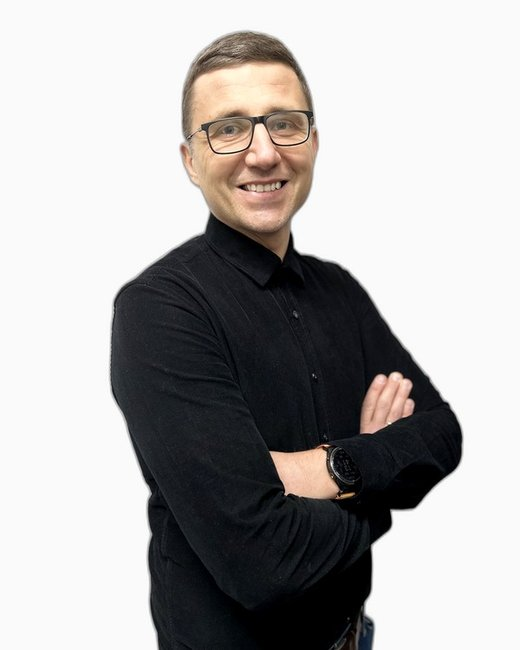
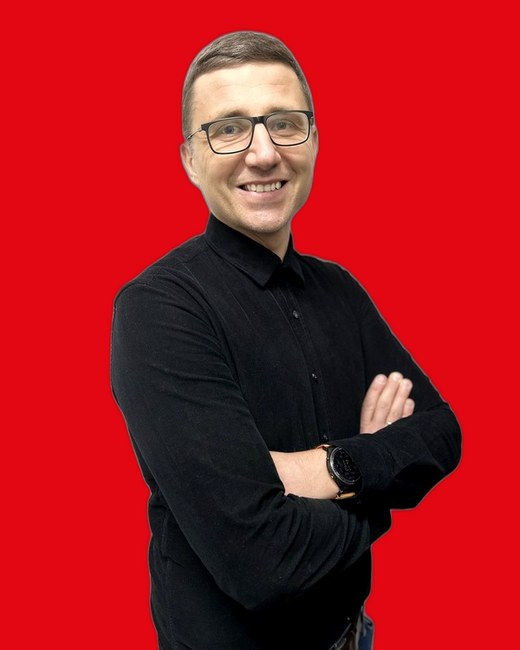
Zdjęcie Artura bez tła, na czerwieni marki

diff --git a/index.html b/index.html
@@ -148,7 +148,7 @@
         .historia-card p{font-size:14px;color:var(--gray-mid);line-height:1.7}
         .autor{padding:80px 0;background:var(--gray-dark);color:var(--white)}
         .autor-grid{display:grid;grid-template-columns:260px 1fr;gap:48px;align-items:center}
-        .autor-photo{width:100%;height:auto;display:block;background:#1d1d1d;border-bottom:4px solid var(--red)}
+        .autor-photo{width:100%;height:auto;display:block}
         .autor-name{font-family:'Antonio',sans-serif;font-size:34px;font-weight:700;text-transform:uppercase;line-height:1.05;margin-bottom:6px}
         .autor-role{font-size:14px;color:var(--red);font-weight:600;letter-spacing:1px;text-transform:uppercase;margin-bottom:22px}
         .autor-text p{font-size:16px;line-height:1.8;color:rgba(255,255,255,.75);margin-bottom:14px;max-width:620px}
